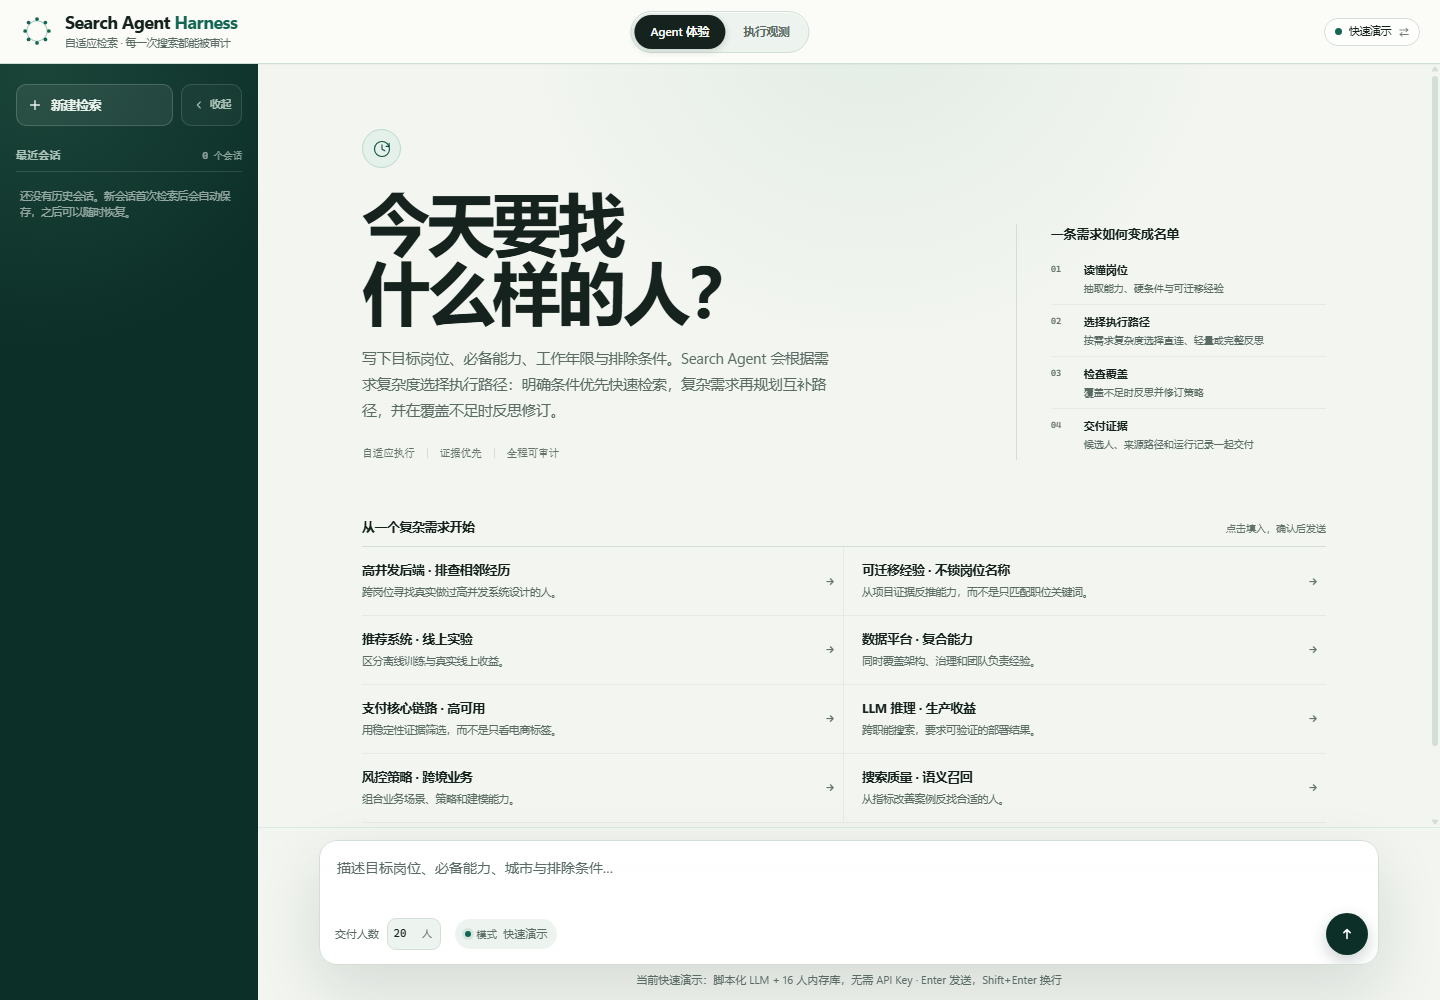
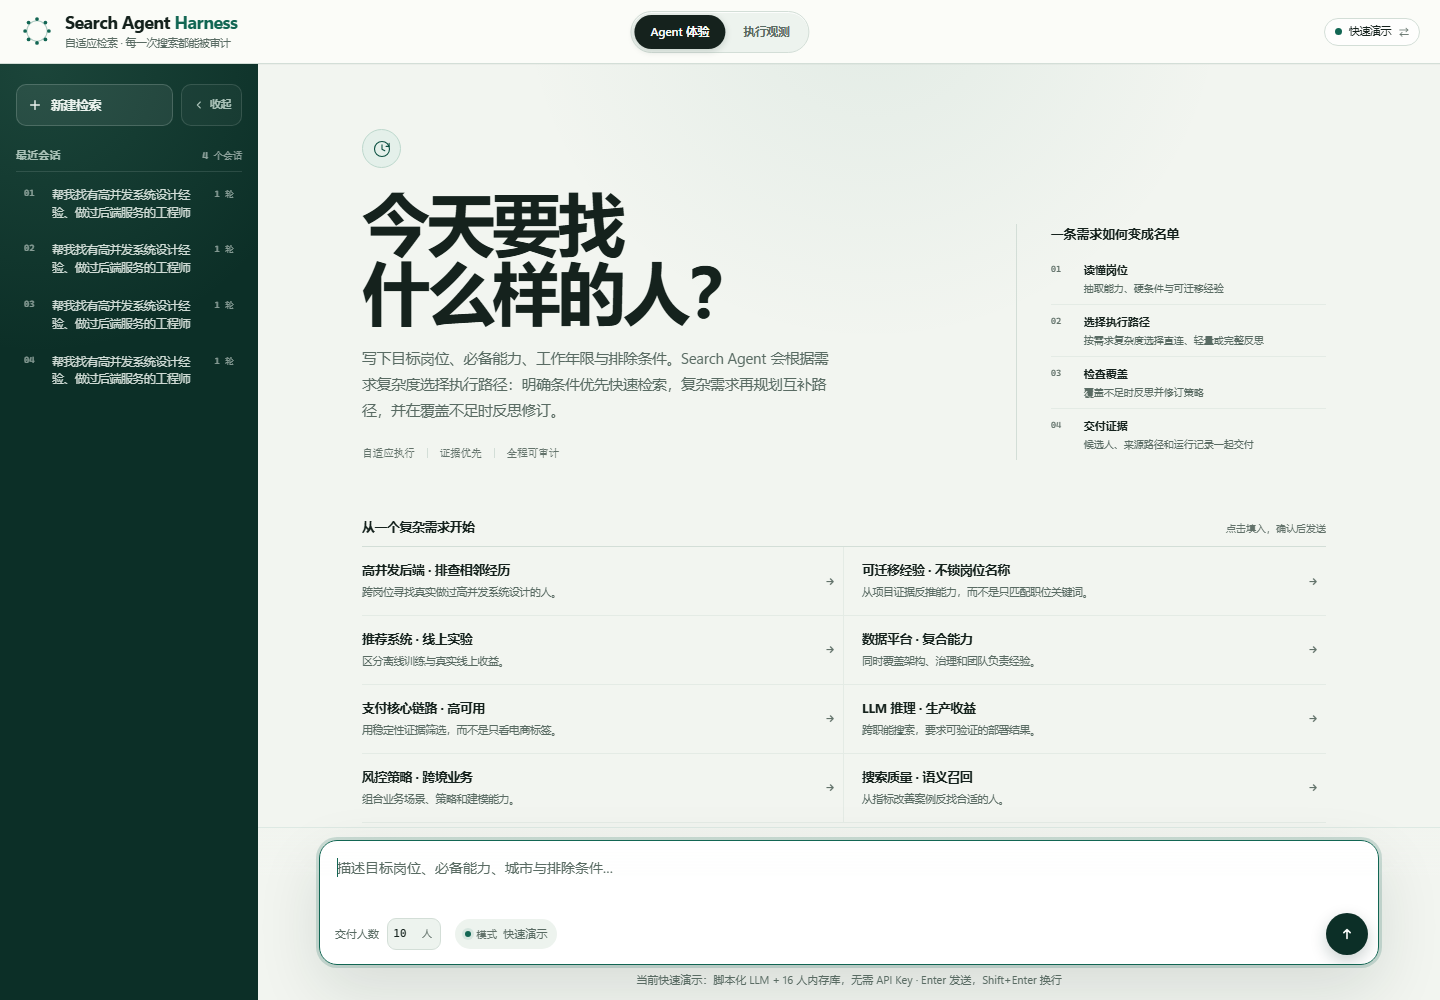
docs: sharpen README showcase and set demo delivery to 10

diff --git a/src/search_agent/web/app.js b/src/search_agent/web/app.js
@@ -5115,7 +5115,7 @@ function bindEvents() {
       runHint.textContent = "请先填写招聘需求。";
       return;
     }
-    const topK = Math.max(1, Math.min(50, Number(topKInput.value) || 20));
+    const topK = Math.max(1, Math.min(50, Number(topKInput.value) || 10));
     topKInput.value = topK;
     runSearch(query, topK);
   });
@@ -5144,7 +5144,7 @@ function bindEvents() {
       return;
     }
     setComposerNote(defaultComposerNote());
-    const topK = Math.max(1, Math.min(50, Number(chatTopKInput.value) || 20));
+    const topK = Math.max(1, Math.min(50, Number(chatTopKInput.value) || 10));
     chatTopKInput.value = topK;
     runSearch(query, topK);
     chatQueryInput.value = "";
@@ -5244,7 +5244,7 @@ function initFromUrl() {
   if (query) queryInput.value = query;
   if (topK) topKInput.value = topK;
   if (params.get("auto") === "1" && query) {
-    const k = Math.max(1, Math.min(50, Number(topK) || 20));
+    const k = Math.max(1, Math.min(50, Number(topK) || 10));
     runSearch(query, k);
   }
 }

diff --git a/src/search_agent/web/index.html b/src/search_agent/web/index.html
@@ -182,7 +182,7 @@
           <label class="composer-count" for="chat-top-k">
             <span class="composer-setting-label">交付人数</span>
             <span class="composer-number-control">
-              <input id="chat-top-k" type="number" min="1" max="50" value="20" inputmode="numeric">
+              <input id="chat-top-k" type="number" min="1" max="50" value="10" inputmode="numeric">
               <span class="composer-number-unit" aria-hidden="true">人</span>
             </span>
           </label>
@@ -235,7 +235,7 @@
 
       <div class="row">
         <label class="field-label" for="top-k">交付人数</label>
-        <input id="top-k" type="number" min="1" max="50" value="20" inputmode="numeric" aria-label="交付人数 topK">
+        <input id="top-k" type="number" min="1" max="50" value="10" inputmode="numeric" aria-label="交付人数 topK">
       </div>
 
       <div class="actions">

diff --git a/README.en.md b/README.en.md
@@ -23,9 +23,28 @@ Controlled direct search · Adaptive reflection for harder requests · Evidence-
 
 > An adaptive Search Agent for talent search: explicit constraints are first parsed into retrieval IR by Hybrid V2 and then executed through a controlled direct-search path; requests that need capability judgment use a lightweight agent; complex requests add multi-path planning, evidence-grounded judgment, and reflective revision inside a budget-governed loop. The project includes a zero-API-key demo and supports real LLMs and Elasticsearch 8.
 
-[Quick start](#quick-start) · [Architecture](#architecture) · [Execution model](#execution-model) · [Evaluation](#evaluation-snapshot) · [Core design](#core-design) · [Documentation](#documentation)
+[60-second demo](#60-second-real-stack-demo) · [Quick start](#quick-start) · [Architecture](#architecture) · [Execution model](#execution-model) · [Evaluation](#evaluation-snapshot) · [Core design](#core-design) · [Documentation](#documentation)
 
 ---
+
+## 60-second real-stack demo
+
+https://github.com/user-attachments/assets/058130c9-098d-4746-8535-1457ff141344
+
+The recording runs against the real LLM + Hybrid V2 + Elasticsearch stack, completes all eight stages (`understand → plan → execute → judge → evaluate → reflect → revise → finalize`), performs two retrieval rounds, and delivers 50 candidates; model wait time is shown at 4× speed. The video shows the full online flow, while current screenshots below reflect the latest UI details. [Local MP4](docs/demo.mp4) · [Video poster](docs/demo-poster.png)
+
+## How one policy revision changed the shortlist
+
+In the 100-candidate synthetic real-LLM A/B, the `backend_concurrency` query delivered five candidates in a single pass, two of them relevant. After reflection revised the search direction, the Agent delivered five candidates, all five relevant, including three new relevant candidates (pool recall 0.857 -> 1.000).
+
+| Metric | Single pass | Agent reflection |
+|---|---:|---:|
+| Delivered candidates | 5 | 5 |
+| Relevant candidates | 2 | 5 |
+| New relevant candidates | — | +3 |
+| Pool recall | 0.857 | 1.000 |
+
+This is a mechanism example, not a claim that every query improves. See the [100-candidate A/B details](docs/real_llm_ab_results_100.md), the [case walkthrough](docs/CASE_STUDY.md), and [Evaluation](docs/EVALUATION.md) for the 10-query average, non-improving cases, and cost.
 
 ## Why this project
 
@@ -123,7 +142,7 @@ pip install -e ".[api]"
 search-agent serve --offline
 ```
 
-Open <http://127.0.0.1:8000>. The quick demo uses a scripted LLM and 16 fictional candidates. It sends no external model requests and does not require Elasticsearch.
+Open <http://127.0.0.1:8000>. The quick demo uses a scripted LLM and 16 fictional candidates, defaults to 10 delivered candidates, sends no external model requests, and does not require Elasticsearch.
 
 Windows can also use the launcher:
 
@@ -154,15 +173,36 @@ Running `search-agent ...` directly does not load `.env`. The `$env:` lines abov
 
 See **[Deployment](docs/DEPLOYMENT.md)** for the full Docker stack, Redis setup, and troubleshooting. See **[Configuration](docs/CONFIGURATION.md)** for every environment variable.
 
-## Interface
+## Interface and core workflows
 
 The default view is a conversational agent workspace: recent conversations on the left, requirement parsing and live execution evidence in the center, and the delivered shortlist on the right. The sidebar can collapse into a narrow rail with a vertical Expand conversations control, then restore the full list when clicked. Narrow screens use a drawer for the same sidebar and keep a conversation entry in the top bar. Another top-bar switch opens the execution-observability view with actual stages, retrieval paths, metrics, and raw trace. Both views share the same SSE run and switching does not rerun the search.
 
-https://github.com/user-attachments/assets/058130c9-098d-4746-8535-1457ff141344
-
-[Delivered candidates](docs/console-run.png) · [Execution observability](docs/console-observe.png)
-
-The demo runs against the real LLM + Hybrid V2 + Elasticsearch stack and completes all eight stages: `understand → plan → execute → judge → evaluate → reflect → revise → finalize`, with two retrieval rounds and 50 delivered candidates. Model wait time is shown at 4× speed.
+<table>
+  <tr>
+    <td width="50%" valign="top">
+      <a href="docs/console-run.png"><img src="docs/feature-evidence.png" alt="Candidate evidence and composite order" width="100%"></a><br>
+      <strong>Candidate evidence</strong><br>
+      <small>Composite order, matched abilities, source paths, and shortlist actions in one view</small>
+    </td>
+    <td width="50%" valign="top">
+      <a href="docs/feature-compare.png"><img src="docs/feature-compare.png" alt="Candidate difference comparison" width="100%"></a><br>
+      <strong>Candidate comparison</strong><br>
+      <small>Only the decisive differences, with a review recommendation</small>
+    </td>
+  </tr>
+  <tr>
+    <td width="50%" valign="top">
+      <a href="docs/feature-resume.png"><img src="docs/feature-resume.png" alt="Complete candidate profile" width="100%"></a><br>
+      <strong>Complete profile</strong><br>
+      <small>Work history, education, skills, and review context in one place</small>
+    </td>
+    <td width="50%" valign="top">
+      <a href="docs/console-observe.png"><img src="docs/feature-trace.png" alt="Agent execution observability" width="100%"></a><br>
+      <strong>Execution observability</strong><br>
+      <small>Eight stages, retrieval paths, run accounting, and raw events</small>
+    </td>
+  </tr>
+</table>
 
 ## Evaluation snapshot
 
@@ -202,7 +242,7 @@ class SearchTool(Protocol):
     def rerank_pool(self, req: RerankToolRequest) -> SearchToolResult: ...
 ```
 
-See [`examples/custom_backend.py`](examples/custom_backend.py) for a minimal implementation, plus [Architecture](docs/ARCHITECTURE.md) and [Hybrid V2](docs/HYBRID_V2.md) for details.
+See [`examples/custom_backend.py`](examples/custom_backend.py) for an integration and call-logging example, plus [Architecture](docs/ARCHITECTURE.md) and [Hybrid V2](docs/HYBRID_V2.md) for details.
 
 ## Documentation
 

diff --git a/README.md b/README.md
@@ -23,9 +23,28 @@
 
 > 一个面向人才搜索场景的自适应 Search Agent：明确条件先由 Hybrid V2 parser 生成检索 IR，再执行受控直连检索；需要能力判断的需求进入轻量 Agent；复杂需求通过多路径规划、候选人证据判断与反思修订，形成预算可控的搜索闭环。项目提供零 API Key 演示，并支持真实 LLM 和 Elasticsearch 8。
 
-[快速开始](#快速开始) · [架构总览](#架构总览) · [执行模型](#执行模型) · [评测摘要](#评测摘要) · [核心设计](#核心设计) · [文档导航](#文档导航)
+[60 秒演示](#60-秒看真实链路) · [快速开始](#快速开始) · [架构总览](#架构总览) · [执行模型](#执行模型) · [评测摘要](#评测摘要) · [核心设计](#核心设计) · [文档导航](#文档导航)
 
 ---
+
+## 60 秒看真实链路
+
+https://github.com/user-attachments/assets/058130c9-098d-4746-8535-1457ff141344
+
+真实 LLM + Hybrid V2 + Elasticsearch，完整走通 `understand → plan → execute → judge → evaluate → reflect → revise → finalize`，两轮检索交付 50 人；模型等待段按 4× 加速。视频展示完整在线链路，界面细节以当前截图为准。[本地 MP4](docs/demo.mp4) · [视频封面](docs/demo-poster.png)
+
+## 一次策略调整，改变交付结果
+
+在 100 人合成语料的真实模型 A/B 中，`backend_concurrency` 这条 Query 的单趟基线交付 5 人、其中 2 人相关；Agent 经反思修订扩大检索方向后交付 5 人、5 人相关，其中 3 人是新增相关候选人（池召回 0.857 → 1.000）。
+
+| 指标 | 单趟基线 | Agent 反思链路 |
+|---|---:|---:|
+| 交付候选人 | 5 | 5 |
+| 其中相关 | 2 | 5 |
+| 新增相关候选人 | — | +3 |
+| 池召回 | 0.857 | 1.000 |
+
+这是一条用来解释机制的案例，不代表每条 Query 都会提升。逐条结果见 [100 人 A/B 明细](docs/real_llm_ab_results_100.md)，阶段走查见 [案例研究](docs/CASE_STUDY.md)，10 条合成 Query 的平均结果、未提升案例与成本见 [评测报告](docs/EVALUATION.md)。
 
 ## 为什么做这个项目
 
@@ -123,7 +142,7 @@ pip install -e ".[api]"
 search-agent serve --offline
 ```
 
-打开 <http://127.0.0.1:8000>。快速演示使用脚本化 LLM 和 16 个虚构候选人，不请求外部模型，也不依赖 Elasticsearch。
+打开 <http://127.0.0.1:8000>。快速演示使用脚本化 LLM 和 16 个虚构候选人，默认交付 10 人，不请求外部模型，也不依赖 Elasticsearch。
 
 Windows 也可以直接运行：
 
@@ -157,15 +176,36 @@ search-agent hybrid-v2 doctor
 
 > 安全边界：本仓库是参考服务，不内置用户认证。生产环境必须由可信 API 网关完成鉴权，并注入 `companyId`、`hrId` 和 `permission`；不要信任浏览器直接提交这些字段。建议设置 `SEARCH_AGENT_REQUIRE_PERMISSION=1` 启用 fail-closed 校验。
 
-## 界面
+## 界面与关键能力
 
 默认界面是对话式 Agent 体验：左侧恢复最近会话，中间展示需求解析、实际执行路径和候选人证据，右侧交付名单。侧栏可收起为带竖排“展开会话”的导航条，点击后恢复完整会话列表。窄屏下侧栏以抽屉形式打开，并在顶栏保留会话入口。顶部还可切换到执行观测，查看实际阶段、检索路径、运行指标和原始 Trace。两种视图共享同一条 SSE 运行，切换不会重新搜索。
 
-https://github.com/user-attachments/assets/058130c9-098d-4746-8535-1457ff141344
-
-[候选人交付截图](docs/console-run.png) · [执行观测截图](docs/console-observe.png)
-
-演示连接真实 LLM + Hybrid V2 + Elasticsearch，完整走通 `understand → plan → execute → judge → evaluate → reflect → revise → finalize`，共 2 轮检索、交付 50 人；模型等待段按 4× 加速。
+<table>
+  <tr>
+    <td width="50%" valign="top">
+      <a href="docs/console-run.png"><img src="docs/feature-evidence.png" alt="候选人证据与综合顺位" width="100%"></a><br>
+      <strong>候选人证据</strong><br>
+      <small>综合顺位、能力命中、来源路径与入围操作同屏</small>
+    </td>
+    <td width="50%" valign="top">
+      <a href="docs/feature-compare.png"><img src="docs/feature-compare.png" alt="候选人差异对比" width="100%"></a><br>
+      <strong>候选人对比</strong><br>
+      <small>只展开关键差异，并给出优先查看建议</small>
+    </td>
+  </tr>
+  <tr>
+    <td width="50%" valign="top">
+      <a href="docs/feature-resume.png"><img src="docs/feature-resume.png" alt="候选人完整档案" width="100%"></a><br>
+      <strong>完整档案</strong><br>
+      <small>工作经历、教育、技能与查验入口集中展示</small>
+    </td>
+    <td width="50%" valign="top">
+      <a href="docs/console-observe.png"><img src="docs/feature-trace.png" alt="Agent 执行观测" width="100%"></a><br>
+      <strong>执行观测</strong><br>
+      <small>八阶段、检索路径、运行账本与原始事件可追溯</small>
+    </td>
+  </tr>
+</table>
 
 ## 评测摘要
 
@@ -205,7 +245,7 @@ class SearchTool(Protocol):
     def rerank_pool(self, req: RerankToolRequest) -> SearchToolResult: ...
 ```
 
-最小接入示例见 [`examples/custom_backend.py`](examples/custom_backend.py)。更多细节见 [架构设计](docs/ARCHITECTURE.md) 与 [Hybrid V2](docs/HYBRID_V2.md)。
+接入与调用日志示例见 [`examples/custom_backend.py`](examples/custom_backend.py)。更多细节见 [架构设计](docs/ARCHITECTURE.md) 与 [Hybrid V2](docs/HYBRID_V2.md)。
 
 ## 文档导航
 

diff --git a/CHANGELOG.md b/CHANGELOG.md
@@ -220,6 +220,7 @@
 
 ### Changed
 
+- **首页演示路径与默认体验**（`README.md`、`README.en.md`、`web/`、`docs/`）：将真实在线链路视频和一条可复现的策略修订案例前移到首页，补充候选人证据、对比、档案与执行观测的四宫格展示；零 Key 快速演示默认交付人数从 20 调整为 10，使首次运行可以完整展示成功交付。同步刷新当前界面截图、视频封面和并发报告基线说明。
 - **README 重构为项目首页**（`README.md`、`README.en.md`、`docs/EVALUATION.md`）：将原 800 余行的说明文档收敛为问题背景、执行模型、快速开始、能力边界、实测摘要、接口与文档导航；新增独立英文入口与评测详情页，刷新 Agent 体验、执行观测和交付截图，并同步测试徽章、阶段口径与合成数据边界。
 - **文档分层与导航收敛**（`README.md`、`README.en.md`、`docs/`）：首页进一步收敛为项目介绍、执行模型、最小启动与评测摘要；将意图路由、HTTP API、部署与完整配置拆到独立文档；架构文档删除重复路由表并引用意图路由；中英文首页采用同一套文档导航与 3/5/8 阶段口径；同步校准 Hybrid V2 直连的 LLM 调用说明、Token 预算口径和真实 LLM 实验的非完全确定性边界。
 - **Hybrid V2 文档中文化**（`docs/HYBRID_V2.md`）：将完整英文说明重写为中文，保留索引契约、向量模式、重排机制、配置项、安全边界与全部命令示例。

diff --git a/docs/CONCURRENCY_REPORT.md b/docs/CONCURRENCY_REPORT.md
@@ -1,7 +1,7 @@
 # 并发准入与压力测试验收报告
 
 > 验收日期：2026-10-27（Asia/Shanghai）  
-> 代码基线：`main` / `e52cf71`，报告基于当前工作区未提交的并发改动  
+> 代码基线：并发能力落点 `71eee64`；报告整理时仓库 HEAD 为 `6ed8a85`。后续提交未重跑本报告压测。
 > 结论：**并发闸门已接入同步与 SSE 搜索入口；离线边界测试验证了 429、队列上限和等待超时，真实在线链路（LLM Gateway + Hybrid V2 + Elasticsearch）也完成了单次冒烟与 25 并发突发验证。**
 
 ## 1. 验收摘要
